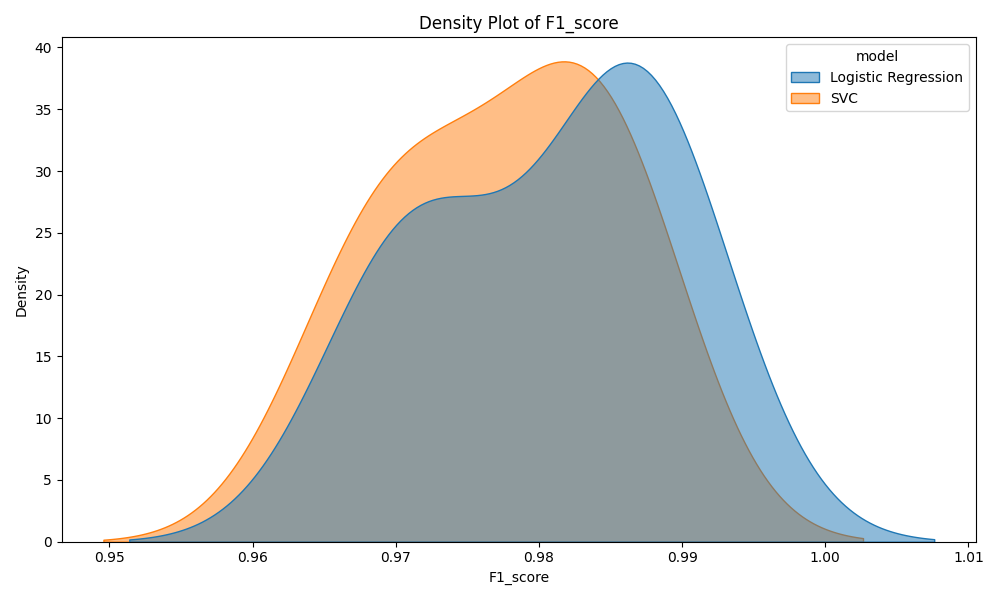
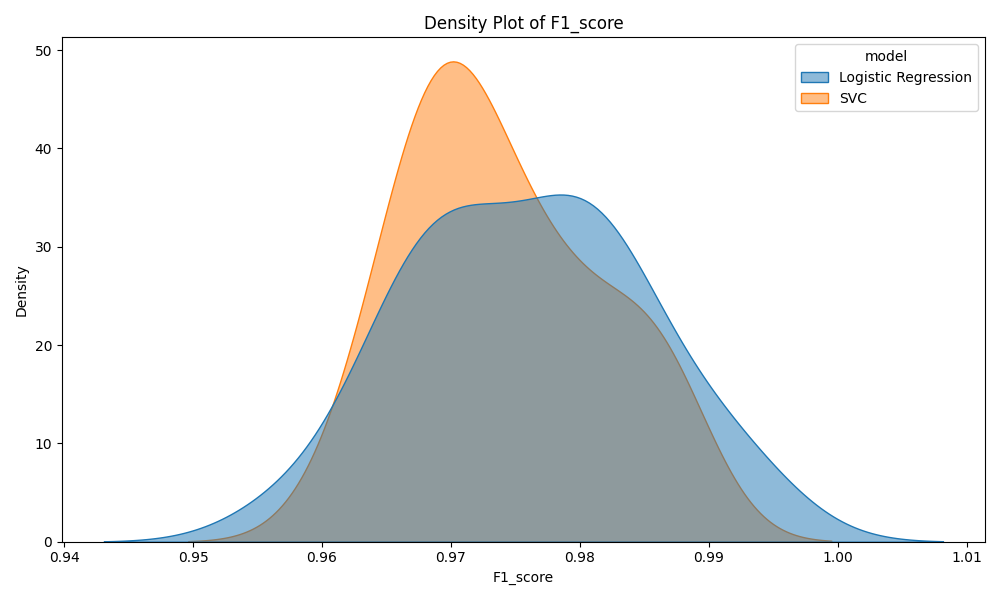
zadanie 6 - hotovo

diff --git a/cv6/machine_learning/main.py b/cv6/machine_learning/main.py
@@ -49,7 +49,7 @@ def run_experiment(dataset, models, param_grids, logger):
     - results: DataFrame, the results of the experiment.
     """
     logger.info("Starting the experiment...")
-    experiment = Experiment(models, param_grids, n_replications=50, logger=logger)
+    experiment = Experiment(models, param_grids, n_replications=20, logger=logger)
     results = experiment.run(dataset.data, dataset.target)
     logger.info("Experiment completed successfully.")
     return experiment, results

diff --git a/cv6/CV6_5_Zadanie_2.md b/cv6/CV6_5_Zadanie_2.md
@@ -37,10 +37,17 @@ Do implementácie pridajte ukladanie všetkých grafov, ktoré sa vytvárajú pr
 
 **V skripte `main.py`** nastavte počet replikácií na vyššie číslo (rozumne, podľa vlastného uváženia). Vykonajte beh aplikácie s Vašou implementáciou. Po skončení behu zanalyzujte vygenerované grafy a pár vetami popíšte ich interpretáciu. (Napr. v čom je ktorý ML model lepší, a pod.)
 
-#TODO - Interpretácia
+- model som skúšala spustiť na 50 replikácií, no v noci mi bohužiaľ spadol, tak som pristúpila k 20
 
-**Odovzdávanie riešenia:** Ako súčasť riešenia zahrňte okrem odpovedí na otázky aj skripty s Vašou implementáciou, vygenerované logy a grafy (všetko môžete dať na Github).
+### Interpretácia
+- oba modely sú spoľahlivé nad 0.95, no model SVC je presnejší, nakoľko jeho vrchol je užší a teda stabilnejší
+- priemerná presnosť oboch modelov je vysoká => dokonca logistická regresia vyšla lepšie
+- priemerná chyba false negatives je pre SVC nižšia o 0.2 a teda SVC prehliadne menej chorých ako logistická regresia
 
+### Najlepšie zvolené parametre pre SVC:
+- coef0 = 0
+- degree = 3
+- gamma = scale
 ----
 
 #### Referencie
